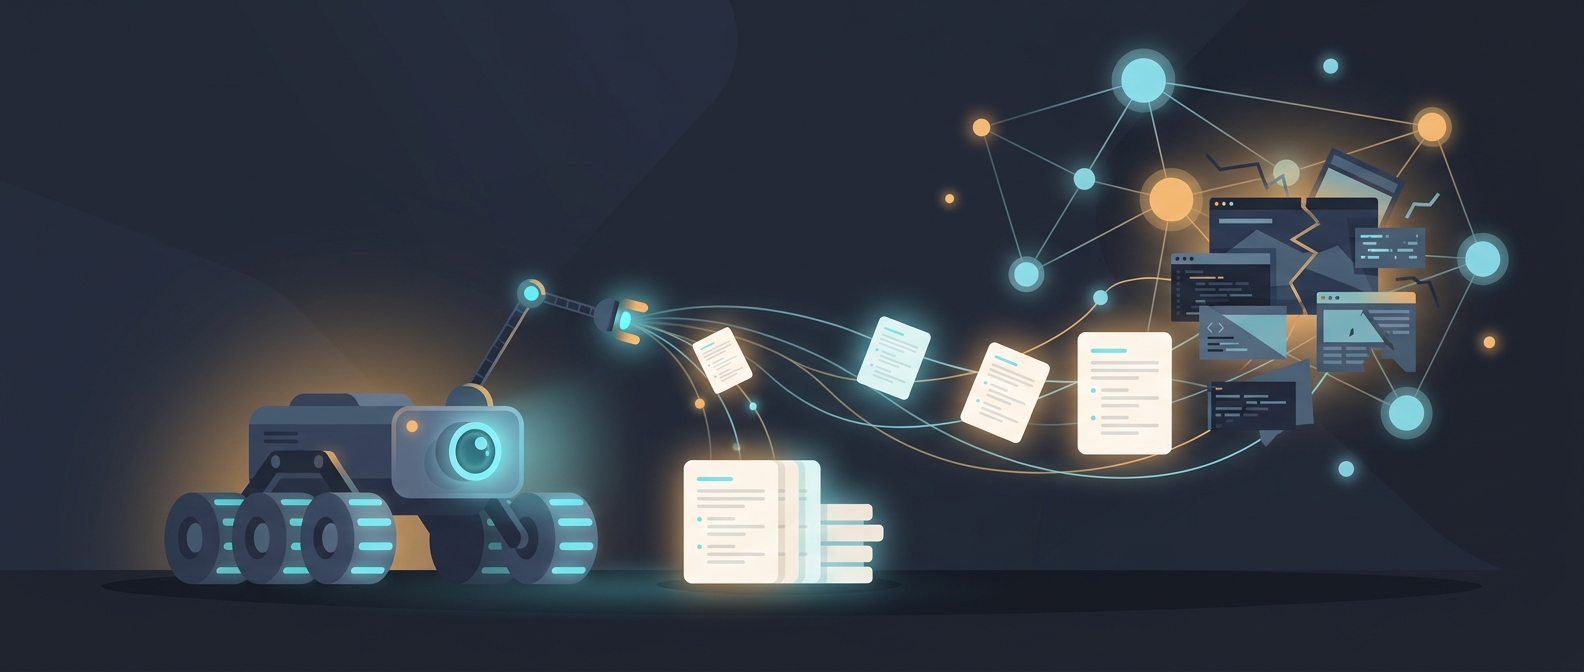
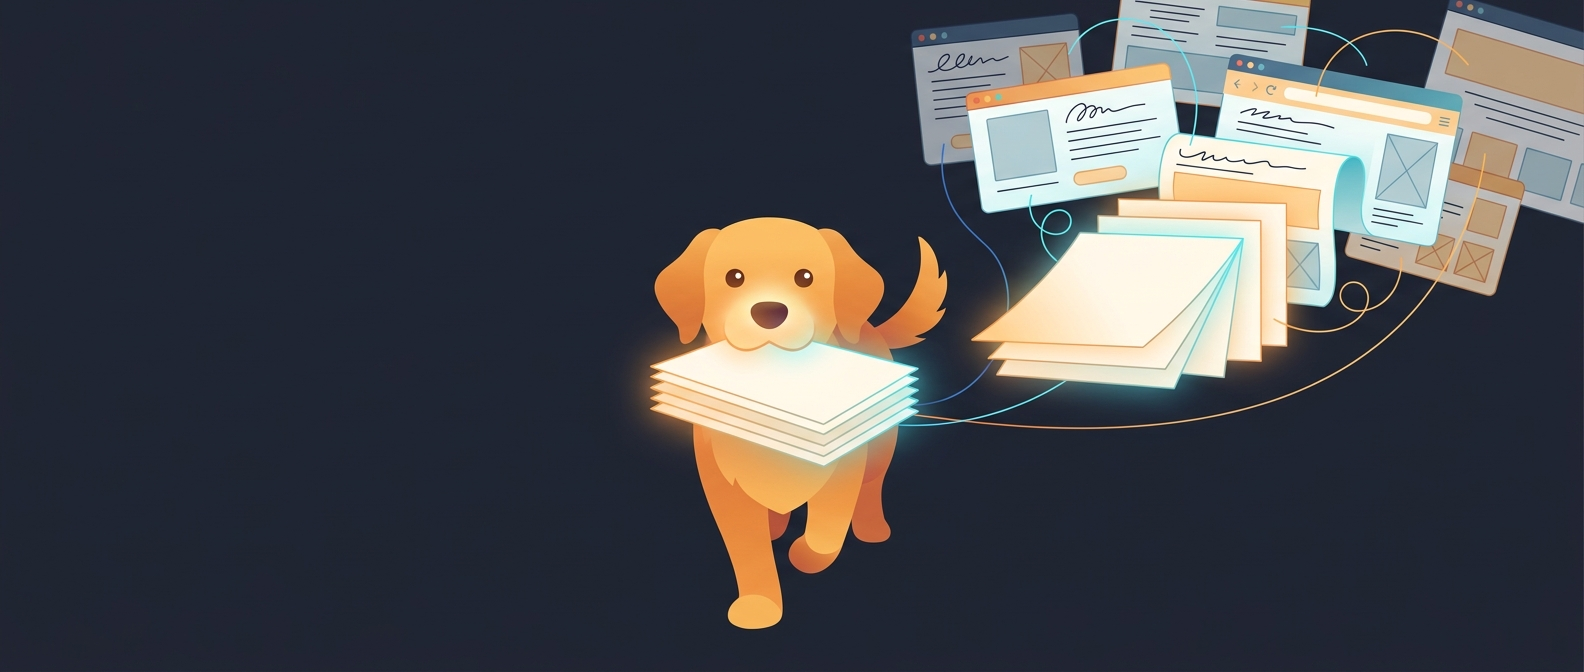
docs(readme): dog mascot hero, summarised CLI demo, flag fixes
- Replace the hero banner with a dog mascot — Rover is the dog that fetches,
  matching the project's actual naming (not a Mars rover).
- Re-record the demo GIF: `rover --help`, a cloud-summarised fetch of the
  Charlie Dog (a.k.a. Rover) page, and `rover cache stats` — slower paced,
  with blank-line separation, sized so the summary is readable.
- Fix token-budget docs: there is no `--count-only` CLI flag (count-only is
  the MCP `count_tokens` / `fetch count_only` surface), and CLI
  `--max-tokens` now actually summarises and marks `summarized: true`.

diff --git a/README.md b/README.md
@@ -21,7 +21,9 @@ Point your agent at a URL and Rover fetches it, strips the ads/nav/chrome, extra
 
 <div align="center">
 
-<img src="docs/assets/rover-demo.gif" alt="rover --help, rover fetch, and rover doctor in a terminal" width="80%">
+<img src="docs/assets/rover-demo.gif" alt="rover fetching a Wikipedia page and summarising it to a token budget" width="85%">
+
+<sub><code>rover</code> fetching the Charlie Dog (a.k.a. <strong>Rover</strong> 🐕) page and summarising ~19.6k tokens down to ~330 — summarisation here runs through a configured cloud backend.</sub>
 
 </div>
 
@@ -221,7 +223,7 @@ The tracing layer scrubs URL query-string secrets (`api_key`, `token`, `secret`,
 
 ### Output that respects your token budget
 
-Every fetch returns YAML-frontmattered Markdown with cache provenance, content hash, language, extraction-quality score, and a token estimate. Pass `max_tokens` (MCP) / `--max-tokens` (CLI) and Rover summarises to fit; pass `count_only` / `--count-only` and it skips the body entirely and returns just the estimate. Token counts span five tokenisers (`cl100k`, `o200k`, `claude`, `llama3`, `qwen3`; default `o200k`).
+Every fetch returns YAML-frontmattered Markdown with cache provenance, content hash, language, extraction-quality score, and a token estimate. Pass `max_tokens` (MCP) / `--max-tokens` (CLI) and Rover summarises to fit — the body is replaced with a budget-sized summary and the frontmatter gains `summarized: true`. The MCP `fetch` `count_only` arg (and the standalone `count_tokens` tool) returns just the estimate without the body. Token counts span five tokenisers (`cl100k`, `o200k`, `claude`, `llama3`, `qwen3`; default `o200k`).
 
 ### Caching, with care
 
